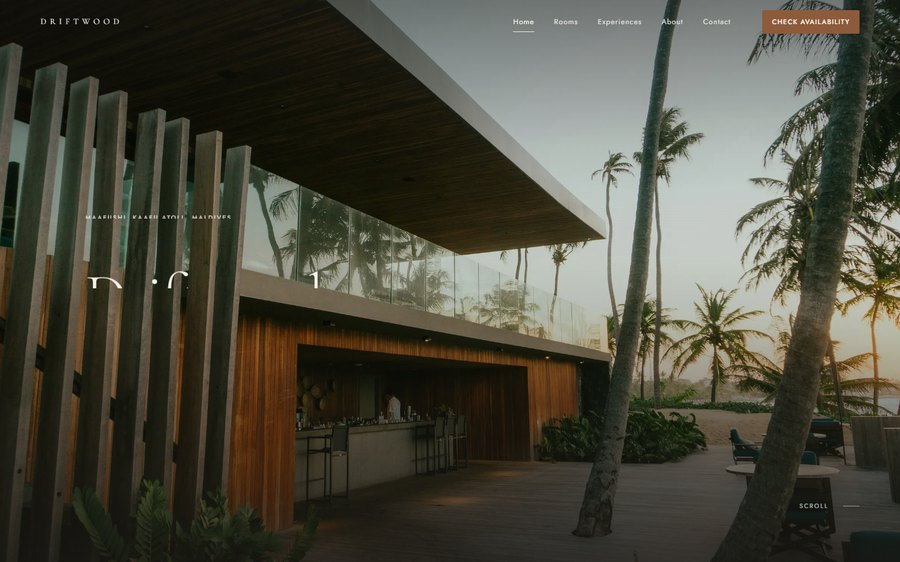
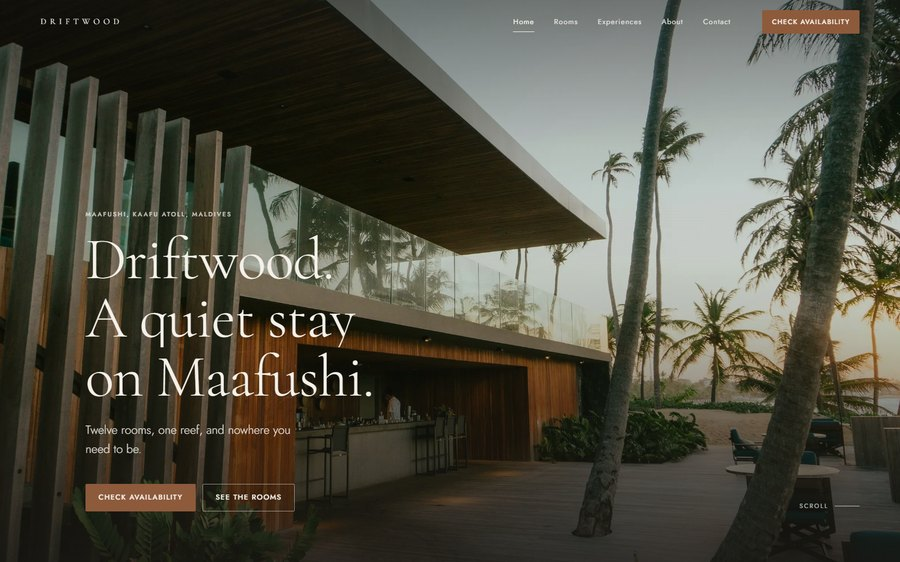
Fix concept-card screenshots taken before hero content loaded
The original captures used a plain headless-Chrome screenshot, which
fires on the load event rather than waiting for web fonts or async
images to paint. Driftwood's nav rendered in fallback glyphs and
Scentu's product photo (a background-image, not an <img>) hadn't
loaded at all.

Added shot.py, which drives Chrome over the DevTools protocol and
polls the live page for document.fonts.ready plus every on-screen
image actually loaded before capturing. Re-shot the three affected
cards; skincare-nuit.jpg was already correct.

diff --git a/shot.py b/shot.py
@@ -1,0 +1,169 @@
+#!/usr/bin/env python3
+"""Drives headless Chrome via the DevTools protocol to capture a hero
+screenshot only once fonts and every on-screen <img>/background-image have
+actually finished loading. Not part of the site — a build tool for the
+concept-card covers in assets/*.jpg (see index.html's #work section).
+
+A plain `chrome --headless --screenshot` fires as soon as the load event
+does, which is well before web fonts or images that load asynchronously
+have painted — that produced the blank/placeholder card covers this
+script exists to avoid. This polls the live page instead of guessing a
+fixed delay.
+
+Requires: pip install websocket-client
+Usage:    python shot.py <url> <out.png> [width] [height]
+"""
+import base64
+import json
+import subprocess
+import sys
+import time
+import urllib.request
+
+import websocket
+
+CHROME = r"C:\Program Files\Google\Chrome\Application\chrome.exe"
+
+
+def main():
+    url = sys.argv[1]
+    out = sys.argv[2]
+    width = int(sys.argv[3]) if len(sys.argv) > 3 else 1600
+    height = int(sys.argv[4]) if len(sys.argv) > 4 else 1000
+    port = 9333
+
+    proc = subprocess.Popen([
+        CHROME, "--headless=new", "--disable-gpu",
+        f"--remote-debugging-port={port}",
+        "--remote-allow-origins=*",
+        f"--window-size={width},{height}",
+        "--hide-scrollbars", "--no-first-run",
+        "--user-data-dir=" + out.rsplit(".", 1)[0] + "-profile",
+        "about:blank",
+    ], stdout=subprocess.DEVNULL, stderr=subprocess.DEVNULL)
+
+    try:
+        # Wait for the debugger to accept connections, then use the default page
+        # target headless Chrome opens at startup rather than /json/new (that
+        # endpoint's query-string form for a start URL is gone in current Chrome).
+        target = None
+        for _ in range(50):
+            try:
+                targets = json.loads(urllib.request.urlopen(f"http://127.0.0.1:{port}/json/list").read())
+                target = next((t for t in targets if t.get("type") == "page"), None)
+                if target:
+                    break
+            except Exception:
+                pass
+            time.sleep(0.2)
+        if target is None:
+            raise RuntimeError("Chrome DevTools endpoint never came up")
+
+        ws = websocket.create_connection(target["webSocketDebuggerUrl"], timeout=30)
+        msg_id = 0
+
+        def send(method, params=None):
+            nonlocal msg_id
+            msg_id += 1
+            ws.send(json.dumps({"id": msg_id, "method": method, "params": params or {}}))
+            return msg_id
+
+        def recv_until(target_id, timeout=30):
+            deadline = time.time() + timeout
+            while time.time() < deadline:
+                ws.settimeout(max(0.1, deadline - time.time()))
+                try:
+                    raw = ws.recv()
+                except Exception:
+                    break
+                data = json.loads(raw)
+                if data.get("id") == target_id:
+                    return data
+            raise TimeoutError(f"No response to message {target_id}")
+
+        send("Page.enable")
+        recv_until(msg_id)
+        send("Runtime.enable")
+        recv_until(msg_id)
+        send("Emulation.setDeviceMetricsOverride", {
+            "width": width, "height": height, "deviceScaleFactor": 1, "mobile": False,
+        })
+        recv_until(msg_id)
+
+        nav_id = send("Page.navigate", {"url": url})
+        recv_until(nav_id)
+
+        # Poll the page itself: fonts ready, every <img> complete, and every element
+        # with a CSS background-image actually painted (some sites fade a photo in
+        # via a background-image set after a fetch, not an <img> tag).
+        check_js = rf"""
+        (async () => {{
+          try {{ await document.fonts.ready; }} catch (e) {{}}
+          // Only elements actually on screen right now — a carousel's off-stage
+          // slides (display fine, positioned outside the viewport or opacity:0)
+          // legitimately never load until their turn, and should not block this.
+          const onScreen = (el) => {{
+            const r = el.getBoundingClientRect();
+            const cs = getComputedStyle(el);
+            return r.width > 40 && r.height > 20 && r.right > 0 && r.bottom > 0 &&
+                   r.left < {width} && r.top < {height} &&
+                   cs.visibility !== 'hidden' && parseFloat(cs.opacity) > 0.05;
+          }};
+          const imgs = [...document.images].filter(onScreen);
+          const imgsOk = imgs.every(i => i.complete && i.naturalWidth > 0);
+          const bgEls = [...document.querySelectorAll('*')].filter(el => {{
+            const cs = getComputedStyle(el);
+            return cs.backgroundImage && cs.backgroundImage !== 'none' && onScreen(el);
+          }}).slice(0, 40);
+          let bgOk = true;
+          for (const el of bgEls) {{
+            const m = getComputedStyle(el).backgroundImage.match(/url\(["']?([^"')]+)["']?\)/);
+            if (!m) continue;
+            const ok = await new Promise((res) => {{
+              const im = new Image();
+              im.onload = () => res(true);
+              im.onerror = () => res(true); // do not block forever on a failed fetch
+              im.src = m[1];
+              if (im.complete) res(true);
+            }});
+            if (!ok) bgOk = false;
+          }}
+          return JSON.stringify({{imgsOk, imgCount: imgs.length, bgOk, bgCount: bgEls.length}});
+        }})()
+        """
+
+        ready = False
+        last = None
+        for attempt in range(40):  # up to ~20s of polling
+            ev_id = send("Runtime.evaluate", {"expression": check_js, "awaitPromise": True, "returnByValue": True})
+            resp = recv_until(ev_id, timeout=10)
+            try:
+                last = json.loads(resp["result"]["result"]["value"])
+                if last["imgsOk"] and last["bgOk"]:
+                    ready = True
+                    break
+            except Exception:
+                pass
+            time.sleep(0.5)
+
+        # A short settle beyond "loaded" for CSS transitions/fade-ins to finish.
+        time.sleep(1.2)
+
+        shot_id = send("Page.captureScreenshot", {"format": "png", "captureBeyondViewport": False})
+        resp = recv_until(shot_id, timeout=20)
+        data = resp["result"]["data"]
+        with open(out, "wb") as f:
+            f.write(base64.b64decode(data))
+
+        print(f"{out}: ready={ready} last={last}")
+        ws.close()
+    finally:
+        proc.terminate()
+        try:
+            proc.wait(timeout=5)
+        except Exception:
+            proc.kill()
+
+
+if __name__ == "__main__":
+    main()
